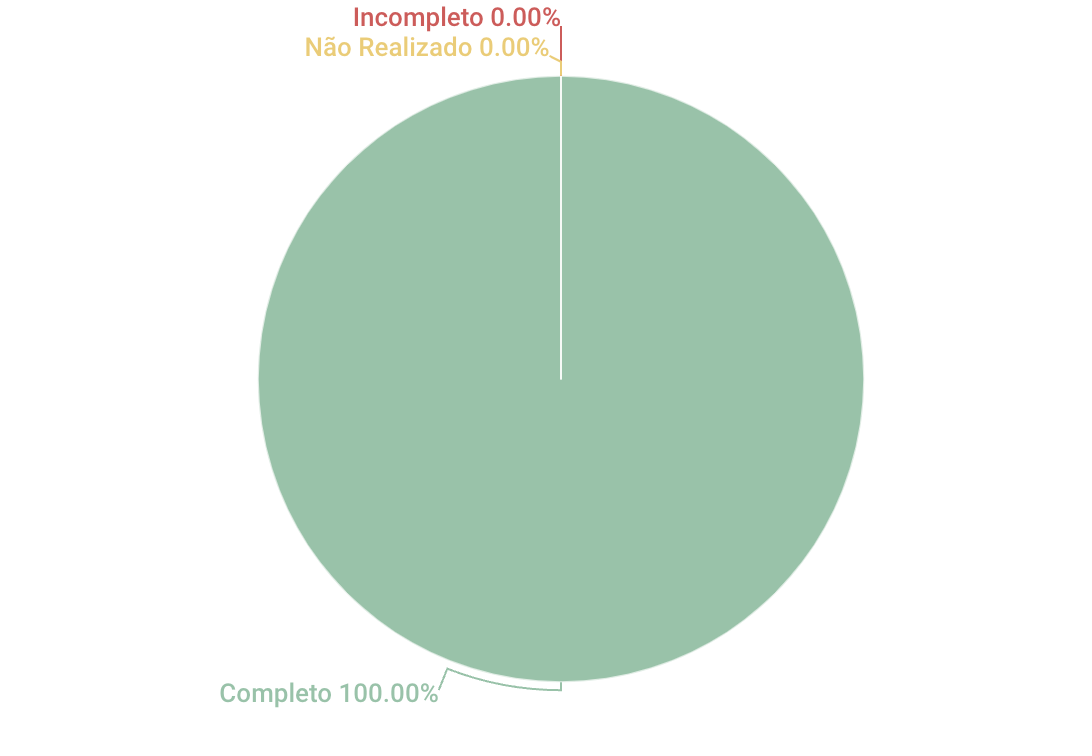
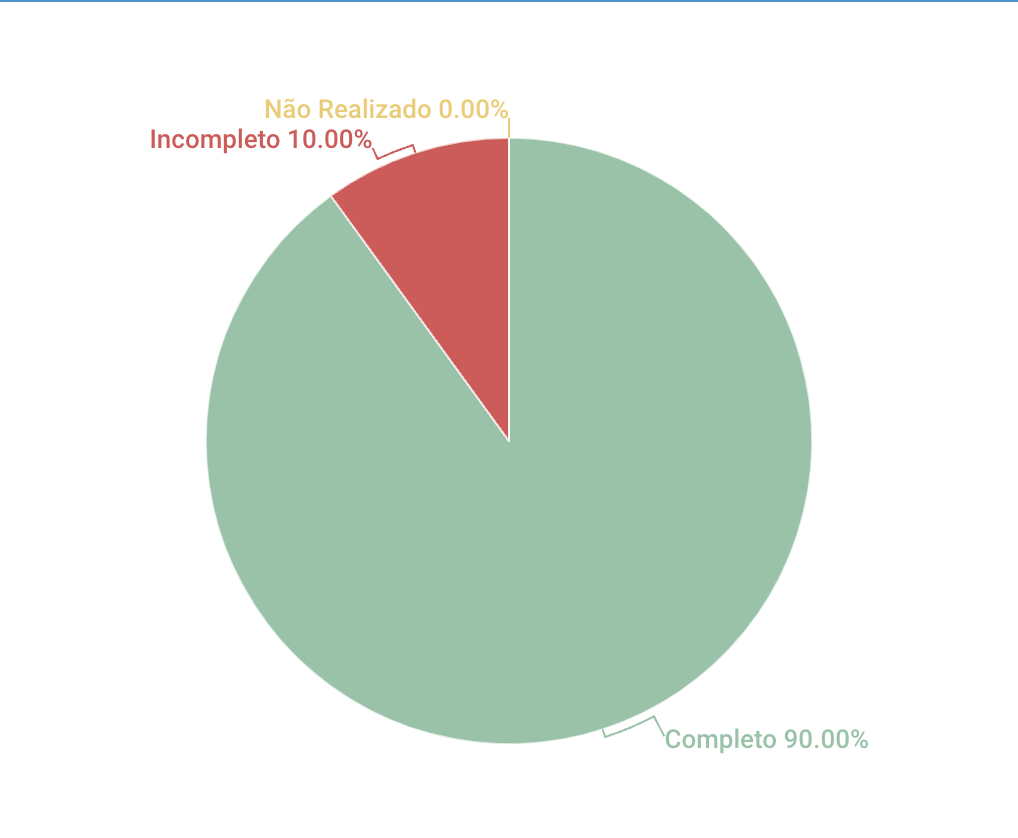
docs: adiciona threelevelscale.md e perfilusuariov.md com a verificacao dos dois artefatos

diff --git a/docs/verificacao_grupo01/verifica01_threelevelscale.md b/docs/verificacao_grupo01/verifica01_threelevelscale.md
@@ -1,0 +1,59 @@
+## 1. Introdução
+Esse artefato visa realizar a verificação do artefato de Personas produzido pelo Grupo 01 - Bilheteria Digital, que se encontra [nesse link](https://requisitos-de-software.github.io/2023.1-BilheteriaDigital/elicitacao/priorizacao/threeLvlScale/).
+
+## 2. Metodologia
+Você pode conferir a metodologia utilizada para a verificação do Grupo 01 [nesse link](https://requisitos-de-software.github.io/2023.1-Twitch/verificacao_grupo01/planejamento/).
+
+## 3. Verificação
+
+A tabela 1 a seguir apresenta o checklist que orientou a verificação do Grupo 01 - Bilheteria Digital, da disciplina de Requisitos de Software no semestre 2023.01.
+
+| ID |Questão| Resultado da Verificação |
+| :---: | --- | :---: |
+| 01 | O artefato possui uma introdução | Completo |
+| 02 | O artefato possui a metodologia  | Completo |
+| 03 | O artefato possui uma tabela com histórico de versões, com data, descrição, autor(es) e revisor(es)  | Completo |
+| 04 | O artefato possui referências bibliográficas  | Completo |
+| 05 | As tabelas e imagens do artefato possuem fontes e legendas | Incompleto, as tabelas de requisitos priorizados possuem apenas fonte e a tabela do histórico de versões não possui fonte, nem legenda  |
+| 06 | No documento foi explicado como o método Three Level Scale funciona | Completo |
+| 07 | Os requisitos priorizados funcionais e não funcionais foram apresentados no documento | Completo |
+| 08 | O documento possui as técnicas de elicitação dos requisitos priorizados utilizados no Three Level Scale | Completo |
+| 09 | O documento explica as categorias de priorização do Three Level Scale (alta, média, baixa) e mostra a relação das categorias com "Importante" e "Não muito importante" | Incompleto, faltou a relação das categorias com "Importante" e "não muito importante", como apresentado no Software Requirements. 3. ed.|
+| 10 | O documento possui as técnicas de elicitação dos requisitos priorizados utilizados no Three Level Scale | Completo |
+
+<h6 align = "center"> Tabela 1: Checklist para Verificação
+<br> Autor(es): Diógenes Dantas
+<br>Fonte: Autor(es)</h6>
+
+## 4. Resultados
+A imagem 1 a seguir apresenta um gráfico de pizza levando em consideração as 10 questões utilizadas para verificação do artefato three level scale:
+
+![Resultados Three-Level Scale](./imagens_verifica01/threelevelscale.png)
+<h6 align = "center"> Imagem 1: Resultados da Verificação do Three Level Scale
+<br> Autor(es): Diógenes Dantas
+<br>Fonte: Autor(es)</h6>
+
+O artefato está bem completo e foi muito bem desenvolvido. Contudo, a metodologia do Three-Level Scale deveria ter algo relacionado a relação entre as categorias alta, média e baixa com os quadrantes "Importante" e "Não muito importante" para apresentar um melhor explicação a respeito da técnica de priorização. Além disso, é necessário que o Grupo 01 se atente as questões relacionadas as legendas e fontes das tabelas e imagens.
+
+## Referências
+
+>SALES, André. Tabela utilizada para análise dos grupos. Disponível em: https://aprender3.unb.br/pluginfile.php/2523005/mod_resource/content/31/Plano_de_Ensino%20RE%20202301%20Turma%202.pdf. Acesso em: 13 de junho de 2023.
+
+>Three-level Scale. In: WIEGERS, Karl E.; BEATTY, Joy. Software Requirements. 3. ed. [S. l.]: Microsoft Press, 2013. cap. 16, p. 313-329. ISBN 0735679665. Acesso em 13 de junho de 2023
+
+
+
+## Histórico de Versões
+
+A Tabela 2 registra o histórico de versão desse documento.
+
+|    Data    | Versão | Descrição                                                                      | Autor(es)  | Revisor  |
+| :--------: | :----: | :----------------------------------------------------------------------------: | :--------: | :------: |
+| 13.06.2023 | 1.0    | Criação do documento de verificação do método de priorização Three Leval Scale(Bilheteria Digital) |   Diógenes  |  -  |
+| 13.06.2023 | 1.1   | Adicão de Checklist do método de priorização Three Leval Scale(Bilheteria Digital) |   Diógenes |  -  |
+
+
+
+<h6 align = "center"> Tabela 3: Histórico de Versões
+<br> Autor(es): Diógenes Dantas
+<br>Fonte: Autor(es)</h6>

diff --git a/docs/verificacao_grupo01/verifica01_perfilusuariov.md b/docs/verificacao_grupo01/verifica01_perfilusuariov.md
@@ -1,8 +1,8 @@
 ## 1. Introdução
-Esse artefato visa realizar a verificação do artefato de Personas produzido pelo Grupo 01 - Bilheteria Digital, que se encontra [nesse link](https://requisitos-de-software.github.io/2023.1-BilheteriaDigital/elicitacao/personas/).
+Esse artefato visa realizar a verificação do artefato de Personas produzido pelo Grupo 01 - Bilheteria Digital, que se encontra [nesse link](https://requisitos-de-software.github.io/2023.1-BilheteriaDigital/elicitacao/perfil_de_usuario/).
 
 ## 2. Metodologia
-Você pode conferir a metodologia utilizada para a verificação do Grupo 01 [nesse link]().
+Você pode conferir a metodologia utilizada para a verificação do Grupo 01 [nesse link](https://requisitos-de-software.github.io/2023.1-Twitch/verificacao_grupo01/planejamento/).
 
 ## 3. Verificação
 
@@ -14,7 +14,7 @@ A tabela 1 a seguir apresenta o checklist que orientou a verificação do Grupo 
 | 02 | O artefato possui a metodologia  | Completo |
 | 03 | O artefato possui uma tabela com histórico de versões, com data, descrição, autor(es) e revisor(es)  | Completo |
 | 04 | O artefato possui referências bibliográficas  | Completo |
-| 05 | As tabelas e imagens do artefato possuem fontes e legendas | Completo |
+| 05 | As tabelas e imagens do artefato possuem fontes e legendas | Incompleto, as imagens possuem apenas fonte e a tabela do histórico de versões não possui fonte, nem legenda |
 | 06 | O artefato descreve os resultados obtidos, imagens ou texto | Completo |
 | 07 | Os dados coletados para utilizar no perfil de usuário foram obtidos através de um estudo conduzido por entrevistas ou aplicação de questionário  | Completo |
 | 08 | O artefato apresenta o termo de consentimento utilizado na coleta dos dados | Completo |
@@ -26,15 +26,14 @@ A tabela 1 a seguir apresenta o checklist que orientou a verificação do Grupo 
 <br>Fonte: Autor(es)</h6>
 
 ## 4. Resultados
-A imagem 1 a seguir apresenta um gráfico de pizza levando em consideração as 10 questões utilizadas para verificação do artefato de personas:
+A imagem 1 a seguir apresenta um gráfico de pizza levando em consideração as 10 questões utilizadas para verificação do artefato de perfil de usuário:
 
-![Resultados Personas](./imagens_verifica01/perfildeusuario.png)
+![Resultados Perfil de Usuario](./imagens_verifica01/perfildeusuario.png)
 <h6 align = "center"> Imagem 1: Resultados da Verificação do Perfil de Usuário
 <br> Autor(es): Diógenes Dantas
 <br>Fonte: Autor(es)</h6>
 
-O artefato está bem completo e foi muito bem desenvolvido. Os dados do artefato foram bem explicados e bem escritos, de acordo com o que foi esperado pela disciplina.
-
+O artefato está bem completo e foi muito bem desenvolvido. Contudo, é necessário apenas que o Grupo 01 se atente as questões relacionadas as legendas e fontes das tabelas e imagens.
 ## Referências
 
 >SALES, André. Tabela utilizada para análise dos grupos. Disponível em: https://aprender3.unb.br/pluginfile.php/2523005/mod_resource/content/31/Plano_de_Ensino%20RE%20202301%20Turma%202.pdf. Acesso em: 13 de junho de 2023.
@@ -56,5 +55,5 @@ A Tabela 3 registra o histórico de versão desse documento.
 
 
 <h6 align = "center"> Tabela 3: Histórico de Versões
-<br> Autor(es):
+<br> Autor(es): Diógenes Dantas
 <br>Fonte: Autor(es)</h6>
